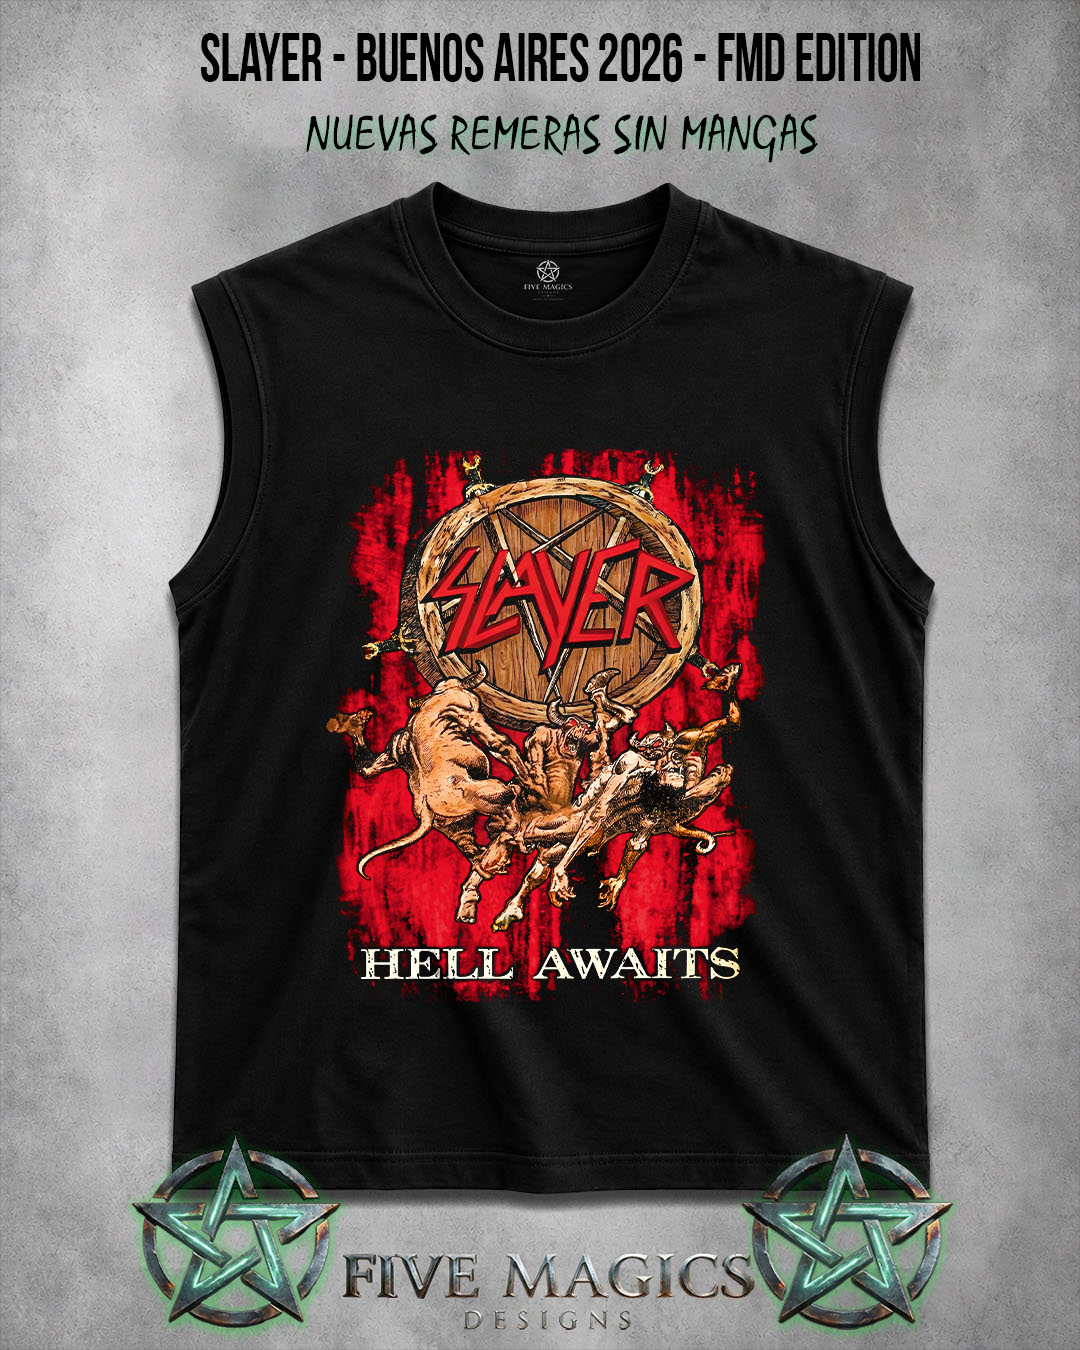
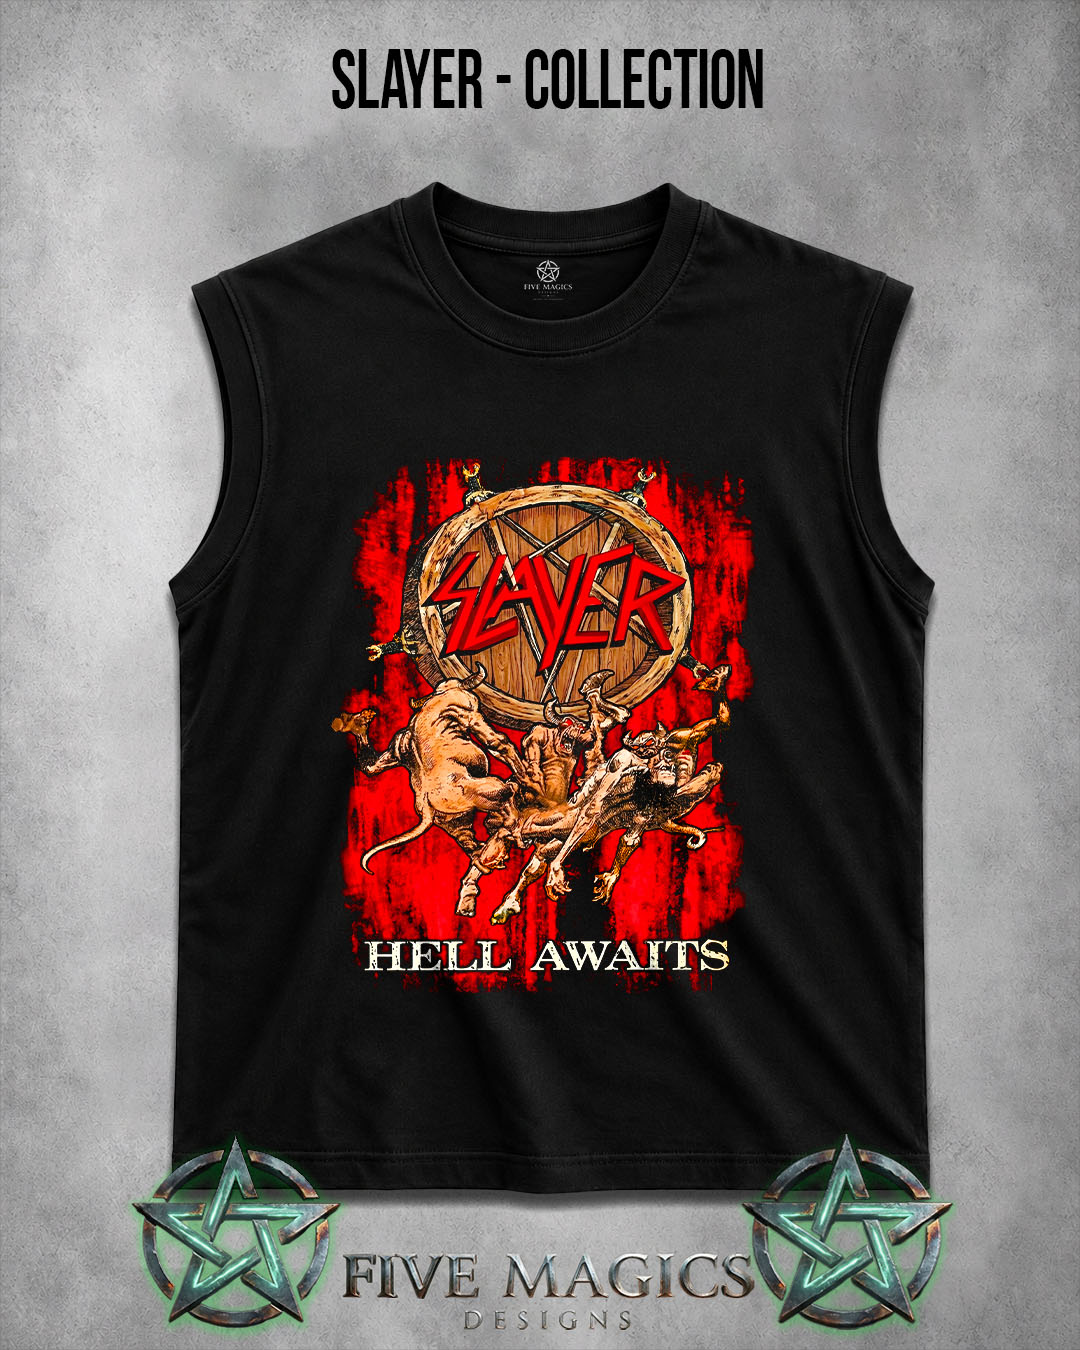
Update Slayer Hell Awaits and Seasons mockups

Changed region(s): [[0.3056, 0.3111, 0.7028, 0.7467], [0.1833, 0.0, 0.8556, 0.1244]]

diff --git a/slayer/index.html b/slayer/index.html
@@ -38,7 +38,7 @@
         function gtag(){dataLayer.push(arguments);}
         gtag('js', new Date());
         gtag('config', 'G-1H3XPM82ED');
-        window.FMD_BAND_LANDING = Object.freeze({"band":"Slayer","slug":"slayer","defaultGarment":"remera","defaultCollection":"","usesShownComposition":true,"usesShownCompositionGarments":[],"collections":[{"id":"reign-in-blood","label":"REIGN IN BLOOD","match":{"albums":["Reign in Blood"]}},{"id":"classics","label":"CLÁSICOS","match":{"albums":["Show No Mercy","Hell Awaits","South of Heaven","Seasons in the Abyss"]}},{"id":"3d-fmd","label":"3D FMD","match":{"designIds":["slayer-3d-fmd-reign-in-blood","slayer-3d-fmd-reign-in-blood-v2","slayer-3d-fmd-aguila","slayer-3d-fmd-angel-of-death","slayer-3d-fmd-south-of-heaven","slayer-3d-fmd-south-of-heaven-original-1988","slayer-3d-fmd-seasons-in-the-abyss","slayer-3d-fmd-god-hates-us-all","slayer-3d-fmd-skull","slayer-3d-fmd-goat","slayer-3d-fmd-throne","slayer-3d-fmd-goat-flame","cd-slayer-fmd-originals--reign-in-blood-3d"]}},{"id":"fmd-originals","label":"EDICIONES FMD","match":{"designIds":["cd-slayer-fmd-originals--angel-of-death","cd-slayer-fmd-originals--hell-awaits","cd-slayer-fmd-originals--live-undead","cd-slayer-fmd-originals--logo","cd-slayer-fmd-originals--reign-in-blood-3d","cd-slayer-fmd-originals--reign-in-blood-graphic","cd-slayer-fmd-originals--seasons-in-the-abyss","cd-slayer-fmd-originals--seasons-in-the-abyss-v2","cd-slayer-fmd-originals--show-no-mercy","cd-slayer-fmd-originals--skull","cd-slayer-fmd-originals--soldiers","cd-slayer-fmd-originals--soldier-v2-graphic","cd-slayer-fmd-originals--south-of-heaven","cd-slayer-fmd-originals--south-of-heaven-graphic","cd-slayer-fmd-originals--throne","cd-slayer-fmd-originals--throne-remera-blanca","cd-slayer-remaster-fmd--p7121","cd-slayer-show-no-mercy-fmd--p7109","slayer-3d-fmd-reign-in-blood","slayer-3d-fmd-reign-in-blood-v2","slayer-3d-fmd-aguila","slayer-3d-fmd-angel-of-death","slayer-3d-fmd-south-of-heaven","slayer-3d-fmd-south-of-heaven-original-1988","slayer-3d-fmd-seasons-in-the-abyss","slayer-3d-fmd-god-hates-us-all","slayer-3d-fmd-skull","slayer-3d-fmd-goat","slayer-3d-fmd-throne","slayer-3d-fmd-goat-flame"]}}],"designOrder":["cd-slayer-reign-in-blood--p7101","cd-slayer-reign-in-blood-argentina-2026--p7101","cd-slayer-reign-in-blood-40th-anniversary--p7113","slayer-3d-fmd-reign-in-blood","slayer-3d-fmd-reign-in-blood-v2","slayer-3d-fmd-angel-of-death","slayer-3d-fmd-aguila","slayer-3d-fmd-south-of-heaven","slayer-3d-fmd-south-of-heaven-original-1988","slayer-3d-fmd-seasons-in-the-abyss","slayer-3d-fmd-god-hates-us-all","slayer-3d-fmd-goat-flame","slayer-3d-fmd-goat","slayer-3d-fmd-throne","slayer-3d-fmd-skull","slayer-reign-in-blood-tres-cruces","cd-slayer-angel-of-death--p7102","cd-slayer-fmd-originals--angel-of-death","cd-slayer-fmd-originals--reign-in-blood-3d","cd-slayer-fmd-originals--reign-in-blood-graphic","cd-slayer-south-of-heaven--p7103","cd-slayer-south-of-heaven-1988--p7103","cd-slayer-seasons-in-the-abyss--p7104","slayer-hell-awaits","slayer-show-no-mercy","cd-slayer-show-no-mercy-v2--p7108","cd-slayer-show-no-mercy-fmd--p7109","cd-slayer-fmd-originals--show-no-mercy","slayer-live-undead","cd-slayer-fmd-originals--live-undead","cd-slayer-fmd-originals--hell-awaits","cd-slayer-fmd-originals--south-of-heaven","cd-slayer-fmd-originals--south-of-heaven-graphic","cd-slayer-seasons-v1--p7114","slayer-christ-illusion","slayer-kerry-king","cd-slayer-fmd-originals--seasons-in-the-abyss","cd-slayer-fmd-originals--seasons-in-the-abyss-v2","cd-slayer-divine-intervention--p7118","cd-slayer-diabolus-in-musica--p7121","cd-slayer-remaster-fmd--p7121","cd-slayer-god-hates-us-all--p7112","cd-slayer-god-hates-us-all-v2--p7115","cd-slayer-repentless--p7128","cd-slayer-goat-tour--p7122","slayer-aguila","cd-slayer-band--p7119","cd-slayer-demonic-admat--p7111","cd-slayer-logo--p7106","cd-slayer-fmd-originals--logo","cd-slayer-nation--p7110","cd-slayer-skull--p7116","cd-slayer-fmd-originals--skull","cd-slayer-slayer-v1--p7124","cd-slayer-slayer-v2--p7125","cd-slayer-slayer-v3--p7126","cd-slayer-slayer-v4--p7127","cd-slayer-skull-war--p7126","cd-slayer-fmd-originals--soldier-v2-graphic","cd-slayer-fmd-originals--soldiers","cd-slayer-fmd-originals--throne","cd-slayer-fmd-originals--throne-remera-blanca","slayer-god-hates-us-all-corona-de-espinas","slayer-logo-verde-calaveras-doradas","slayer-skull-rojo-logo-azul","slayer-soldier-en-llamas"],"prominentAllDesigns":null,"retiredDesignIds":[],"curatedDesignCategories":{},"sharedDesignIds":[],"sharedBands":[],"albumOrder":[],"productionNotice":"","modalBackCarouselDesignIds":[],"suppressNewBadges":false,"cardImageOverrides":{},"editorialBadges":{},"showcase":null});
+        window.FMD_BAND_LANDING = Object.freeze({"band":"Slayer","slug":"slayer","defaultGarment":"remera","defaultCollection":"","usesShownComposition":true,"usesShownCompositionGarments":[],"collections":[{"id":"reign-in-blood","label":"REIGN IN BLOOD","match":{"albums":["Reign in Blood"]}},{"id":"classics","label":"CLÁSICOS","match":{"albums":["Show No Mercy","Hell Awaits","South of Heaven","Seasons in the Abyss"]}},{"id":"3d-fmd","label":"3D FMD","match":{"designIds":["slayer-3d-fmd-reign-in-blood","slayer-3d-fmd-reign-in-blood-v2","slayer-3d-fmd-aguila","slayer-3d-fmd-angel-of-death","slayer-3d-fmd-south-of-heaven","slayer-3d-fmd-south-of-heaven-original-1988","slayer-3d-fmd-seasons-in-the-abyss","slayer-3d-fmd-hell-awaits-roja","slayer-3d-fmd-hell-awaits-dorada","slayer-3d-fmd-god-hates-us-all","slayer-3d-fmd-skull","slayer-3d-fmd-goat","slayer-3d-fmd-throne","slayer-3d-fmd-goat-flame","cd-slayer-fmd-originals--reign-in-blood-3d"]}},{"id":"fmd-originals","label":"EDICIONES FMD","match":{"designIds":["cd-slayer-fmd-originals--angel-of-death","cd-slayer-fmd-originals--hell-awaits","cd-slayer-fmd-originals--live-undead","cd-slayer-fmd-originals--logo","cd-slayer-fmd-originals--reign-in-blood-3d","cd-slayer-fmd-originals--reign-in-blood-graphic","cd-slayer-fmd-originals--seasons-in-the-abyss","cd-slayer-fmd-originals--seasons-in-the-abyss-v2","cd-slayer-fmd-originals--show-no-mercy","cd-slayer-fmd-originals--skull","cd-slayer-fmd-originals--soldiers","cd-slayer-fmd-originals--soldier-v2-graphic","cd-slayer-fmd-originals--south-of-heaven","cd-slayer-fmd-originals--south-of-heaven-graphic","cd-slayer-fmd-originals--throne","cd-slayer-fmd-originals--throne-remera-blanca","cd-slayer-remaster-fmd--p7121","cd-slayer-show-no-mercy-fmd--p7109","slayer-3d-fmd-reign-in-blood","slayer-3d-fmd-reign-in-blood-v2","slayer-3d-fmd-aguila","slayer-3d-fmd-angel-of-death","slayer-3d-fmd-south-of-heaven","slayer-3d-fmd-south-of-heaven-original-1988","slayer-3d-fmd-seasons-in-the-abyss","slayer-3d-fmd-hell-awaits-roja","slayer-3d-fmd-hell-awaits-dorada","slayer-3d-fmd-god-hates-us-all","slayer-3d-fmd-skull","slayer-3d-fmd-goat","slayer-3d-fmd-throne","slayer-3d-fmd-goat-flame"]}}],"designOrder":["cd-slayer-reign-in-blood--p7101","cd-slayer-reign-in-blood-argentina-2026--p7101","cd-slayer-reign-in-blood-40th-anniversary--p7113","slayer-3d-fmd-reign-in-blood","slayer-3d-fmd-reign-in-blood-v2","slayer-3d-fmd-angel-of-death","slayer-3d-fmd-aguila","slayer-3d-fmd-south-of-heaven","slayer-3d-fmd-south-of-heaven-original-1988","slayer-3d-fmd-seasons-in-the-abyss","slayer-3d-fmd-hell-awaits-roja","slayer-3d-fmd-hell-awaits-dorada","slayer-3d-fmd-god-hates-us-all","slayer-3d-fmd-goat-flame","slayer-3d-fmd-goat","slayer-3d-fmd-throne","slayer-3d-fmd-skull","slayer-reign-in-blood-tres-cruces","cd-slayer-angel-of-death--p7102","cd-slayer-fmd-originals--angel-of-death","cd-slayer-fmd-originals--reign-in-blood-3d","cd-slayer-fmd-originals--reign-in-blood-graphic","cd-slayer-south-of-heaven--p7103","cd-slayer-south-of-heaven-1988--p7103","cd-slayer-seasons-in-the-abyss--p7104","slayer-hell-awaits","slayer-hell-awaits-arte-alternativo","slayer-show-no-mercy","cd-slayer-show-no-mercy-v2--p7108","cd-slayer-show-no-mercy-fmd--p7109","cd-slayer-fmd-originals--show-no-mercy","slayer-live-undead","cd-slayer-fmd-originals--live-undead","cd-slayer-fmd-originals--hell-awaits","cd-slayer-fmd-originals--south-of-heaven","cd-slayer-fmd-originals--south-of-heaven-graphic","cd-slayer-seasons-v1--p7114","slayer-christ-illusion","slayer-kerry-king","cd-slayer-fmd-originals--seasons-in-the-abyss","cd-slayer-fmd-originals--seasons-in-the-abyss-v2","cd-slayer-divine-intervention--p7118","cd-slayer-diabolus-in-musica--p7121","cd-slayer-remaster-fmd--p7121","cd-slayer-god-hates-us-all--p7112","cd-slayer-god-hates-us-all-v2--p7115","cd-slayer-repentless--p7128","cd-slayer-goat-tour--p7122","slayer-aguila","cd-slayer-band--p7119","cd-slayer-demonic-admat--p7111","cd-slayer-logo--p7106","cd-slayer-fmd-originals--logo","cd-slayer-nation--p7110","cd-slayer-skull--p7116","cd-slayer-fmd-originals--skull","cd-slayer-slayer-v1--p7124","cd-slayer-slayer-v2--p7125","cd-slayer-slayer-v3--p7126","cd-slayer-slayer-v4--p7127","cd-slayer-skull-war--p7126","cd-slayer-fmd-originals--soldier-v2-graphic","cd-slayer-fmd-originals--soldiers","cd-slayer-fmd-originals--throne","cd-slayer-fmd-originals--throne-remera-blanca","slayer-god-hates-us-all-corona-de-espinas","slayer-logo-verde-calaveras-doradas","slayer-skull-rojo-logo-azul","slayer-soldier-en-llamas"],"prominentAllDesigns":null,"retiredDesignIds":[],"curatedDesignCategories":{},"sharedDesignIds":[],"sharedBands":[],"albumOrder":[],"productionNotice":"","modalBackCarouselDesignIds":[],"suppressNewBadges":false,"cardImageOverrides":{},"editorialBadges":{},"showcase":null});
 
 
     </script>
@@ -635,7 +635,7 @@
 
     <script src="/js/band-archives-config.js?v=slayer-3d-20261105" defer></script>
     <script src="/js/catalog-design.js?v=slayer-assets-20261104" defer></script>
-    <script src="/js/app.js?v=catalog-mocks-20261127" defer></script>
+    <script src="/js/app.js?v=slayer-hell-awaits-mocks" defer></script>
     <script src="/js/slayer-campaign.js?v=20261115-combinations" defer></script>
 </body>
 </html>

diff --git a/js/band-archives-config.js b/js/band-archives-config.js
@@ -164,10 +164,12 @@
                     'slayer-3d-fmd-south-of-heaven', 'slayer-3d-fmd-god-hates-us-all',
                     'slayer-3d-fmd-south-of-heaven-original-1988',
                     'slayer-3d-fmd-seasons-in-the-abyss',
+                    'slayer-3d-fmd-hell-awaits-roja',
+                    'slayer-3d-fmd-hell-awaits-dorada',
                     'slayer-3d-fmd-skull', 'slayer-3d-fmd-goat', 'slayer-3d-fmd-throne',
                     'slayer-3d-fmd-goat-flame', 'cd-slayer-fmd-originals--reign-in-blood-3d'
                 ] } },
-                {"id":"fmd-originals","label":"EDICIONES FMD","match":{"designIds":["cd-slayer-fmd-originals--angel-of-death","cd-slayer-fmd-originals--hell-awaits","cd-slayer-fmd-originals--live-undead","cd-slayer-fmd-originals--logo","cd-slayer-fmd-originals--reign-in-blood-3d","cd-slayer-fmd-originals--reign-in-blood-graphic","cd-slayer-fmd-originals--seasons-in-the-abyss","cd-slayer-fmd-originals--seasons-in-the-abyss-v2","cd-slayer-fmd-originals--show-no-mercy","cd-slayer-fmd-originals--skull","cd-slayer-fmd-originals--soldiers","cd-slayer-fmd-originals--soldier-v2-graphic","cd-slayer-fmd-originals--south-of-heaven","cd-slayer-fmd-originals--south-of-heaven-graphic","cd-slayer-fmd-originals--throne","cd-slayer-fmd-originals--throne-remera-blanca","cd-slayer-remaster-fmd--p7121","cd-slayer-show-no-mercy-fmd--p7109","slayer-3d-fmd-reign-in-blood","slayer-3d-fmd-reign-in-blood-v2","slayer-3d-fmd-aguila","slayer-3d-fmd-angel-of-death","slayer-3d-fmd-south-of-heaven","slayer-3d-fmd-south-of-heaven-original-1988","slayer-3d-fmd-seasons-in-the-abyss","slayer-3d-fmd-god-hates-us-all","slayer-3d-fmd-skull","slayer-3d-fmd-goat","slayer-3d-fmd-throne","slayer-3d-fmd-goat-flame"]}}
+                {"id":"fmd-originals","label":"EDICIONES FMD","match":{"designIds":["cd-slayer-fmd-originals--angel-of-death","cd-slayer-fmd-originals--hell-awaits","cd-slayer-fmd-originals--live-undead","cd-slayer-fmd-originals--logo","cd-slayer-fmd-originals--reign-in-blood-3d","cd-slayer-fmd-originals--reign-in-blood-graphic","cd-slayer-fmd-originals--seasons-in-the-abyss","cd-slayer-fmd-originals--seasons-in-the-abyss-v2","cd-slayer-fmd-originals--show-no-mercy","cd-slayer-fmd-originals--skull","cd-slayer-fmd-originals--soldiers","cd-slayer-fmd-originals--soldier-v2-graphic","cd-slayer-fmd-originals--south-of-heaven","cd-slayer-fmd-originals--south-of-heaven-graphic","cd-slayer-fmd-originals--throne","cd-slayer-fmd-originals--throne-remera-blanca","cd-slayer-remaster-fmd--p7121","cd-slayer-show-no-mercy-fmd--p7109","slayer-3d-fmd-reign-in-blood","slayer-3d-fmd-reign-in-blood-v2","slayer-3d-fmd-aguila","slayer-3d-fmd-angel-of-death","slayer-3d-fmd-south-of-heaven","slayer-3d-fmd-south-of-heaven-original-1988","slayer-3d-fmd-seasons-in-the-abyss","slayer-3d-fmd-hell-awaits-roja","slayer-3d-fmd-hell-awaits-dorada","slayer-3d-fmd-god-hates-us-all","slayer-3d-fmd-skull","slayer-3d-fmd-goat","slayer-3d-fmd-throne","slayer-3d-fmd-goat-flame"]}}
             ],
             designOrder: [
                 'cd-slayer-reign-in-blood--p7101',
@@ -180,6 +182,8 @@
                 'slayer-3d-fmd-south-of-heaven',
                 'slayer-3d-fmd-south-of-heaven-original-1988',
                 'slayer-3d-fmd-seasons-in-the-abyss',
+                'slayer-3d-fmd-hell-awaits-roja',
+                'slayer-3d-fmd-hell-awaits-dorada',
                 'slayer-3d-fmd-god-hates-us-all',
                 'slayer-3d-fmd-goat-flame',
                 'slayer-3d-fmd-goat',
@@ -194,6 +198,7 @@
                 'cd-slayer-south-of-heaven-1988--p7103',
                 'cd-slayer-seasons-in-the-abyss--p7104',
                 'slayer-hell-awaits',
+                'slayer-hell-awaits-arte-alternativo',
                 'slayer-show-no-mercy',
                 'cd-slayer-show-no-mercy-v2--p7108',
                 'cd-slayer-show-no-mercy-fmd--p7109',

diff --git a/scripts/band-sleeveless-browser.test.js b/scripts/band-sleeveless-browser.test.js
@@ -156,6 +156,23 @@ async function main() {
                 if (page === '/slayer/') {
                     await evaluate('selectBandLandingCollection("3d-fmd")');
                     assert(await evaluate('getCatalogDesignResults().some(design => design.designId === "slayer-3d-fmd-seasons-in-the-abyss")'));
+                    assert(await evaluate('["slayer-3d-fmd-hell-awaits-roja", "slayer-3d-fmd-hell-awaits-dorada"].every(id => getCatalogDesignResults().some(design => design.designId === id))'));
+                    await evaluate('openCatalogDesign("slayer-3d-fmd-hell-awaits-roja"); selectColor("blanco")');
+                    assert(await evaluate('selectedCatalogFrontRef?.image.endsWith("slayer_hell_awaits_white_frente_3d.jpg") && selectedPrintMode === "simple"'));
+                    await evaluate('closeModal(false,false); openCatalogDesign("cd-slayer-fmd-originals--hell-awaits")');
+                    for (const [garment, color, file, price] of [
+                        ['remera_clasica', 'negro', 'remera_hell_awaits_doble_fmd_edition.jpg', '$45.000'],
+                        ['sin_mangas', 'blanco', 'slayer_hell_awaits_sin_mangas_fmd_blanca.jpg', '$42.000']
+                    ]) {
+                        const hell = await evaluate(`selectModalGarment('${garment}'); selectColor('${color}'); selectPrintMode('double'); selectSize('M'); ({
+                            image:selectedCatalogFrontRef?.image, added:addToCartFromModal(), order:cart.generateSummary()
+                        })`);
+                        assert(hell.image?.endsWith(file) && hell.added && hell.order.includes('Hell Awaits · Emblema FMD') && hell.order.includes(price), JSON.stringify(hell));
+                        await evaluate('cart.clearCart()');
+                    }
+                    await evaluate('closeModal(false,false); openCatalogDesignForGarment("slayer-hell-awaits-arte-alternativo", "sin_mangas")');
+                    assert(await evaluate('selectedCatalogFrontRef?.image.endsWith("slayer_hell_awaits_frente_V2_sin_mangas.jpg")'));
+                    await evaluate('closeModal(false,false)');
                 }
                 await evaluate(`openCatalogDesign('${id}')`);
                 for (const [i, file] of mocks.entries()) {

diff --git a/js/app.js b/js/app.js
@@ -3395,7 +3395,8 @@ function usesMatchedPrintPreview(design) {
         || design?.designId === 'cd-testament-souls-of-black--p5123'
         || design?.designId === 'testament-live-at-the-fillmore'
         || design?.designId === 'cd-iron-maiden-eddie-gaucho-argentino--p7040'
-        || design?.designId === 'cd-slayer-seasons-in-the-abyss--p7104';
+        || design?.designId === 'cd-slayer-seasons-in-the-abyss--p7104'
+        || design?.designId === 'cd-slayer-fmd-originals--hell-awaits';
 }
 
 function selectPrintMode(mode) {

diff --git a/index.html b/index.html
@@ -1709,7 +1709,7 @@
 
     <script src="js/band-archives-config.js" defer></script>
     <script src="js/catalog-design.js" defer></script>
-    <script src="js/app.js?v=catalog-mocks-20261127" defer></script>
+    <script src="js/app.js?v=slayer-hell-awaits-mocks" defer></script>
     <script src="js/home-combinations.js?v=20261115" defer></script>
     <script src="js/home-sleeveless.js?v=20261117" defer></script>
 </body>
